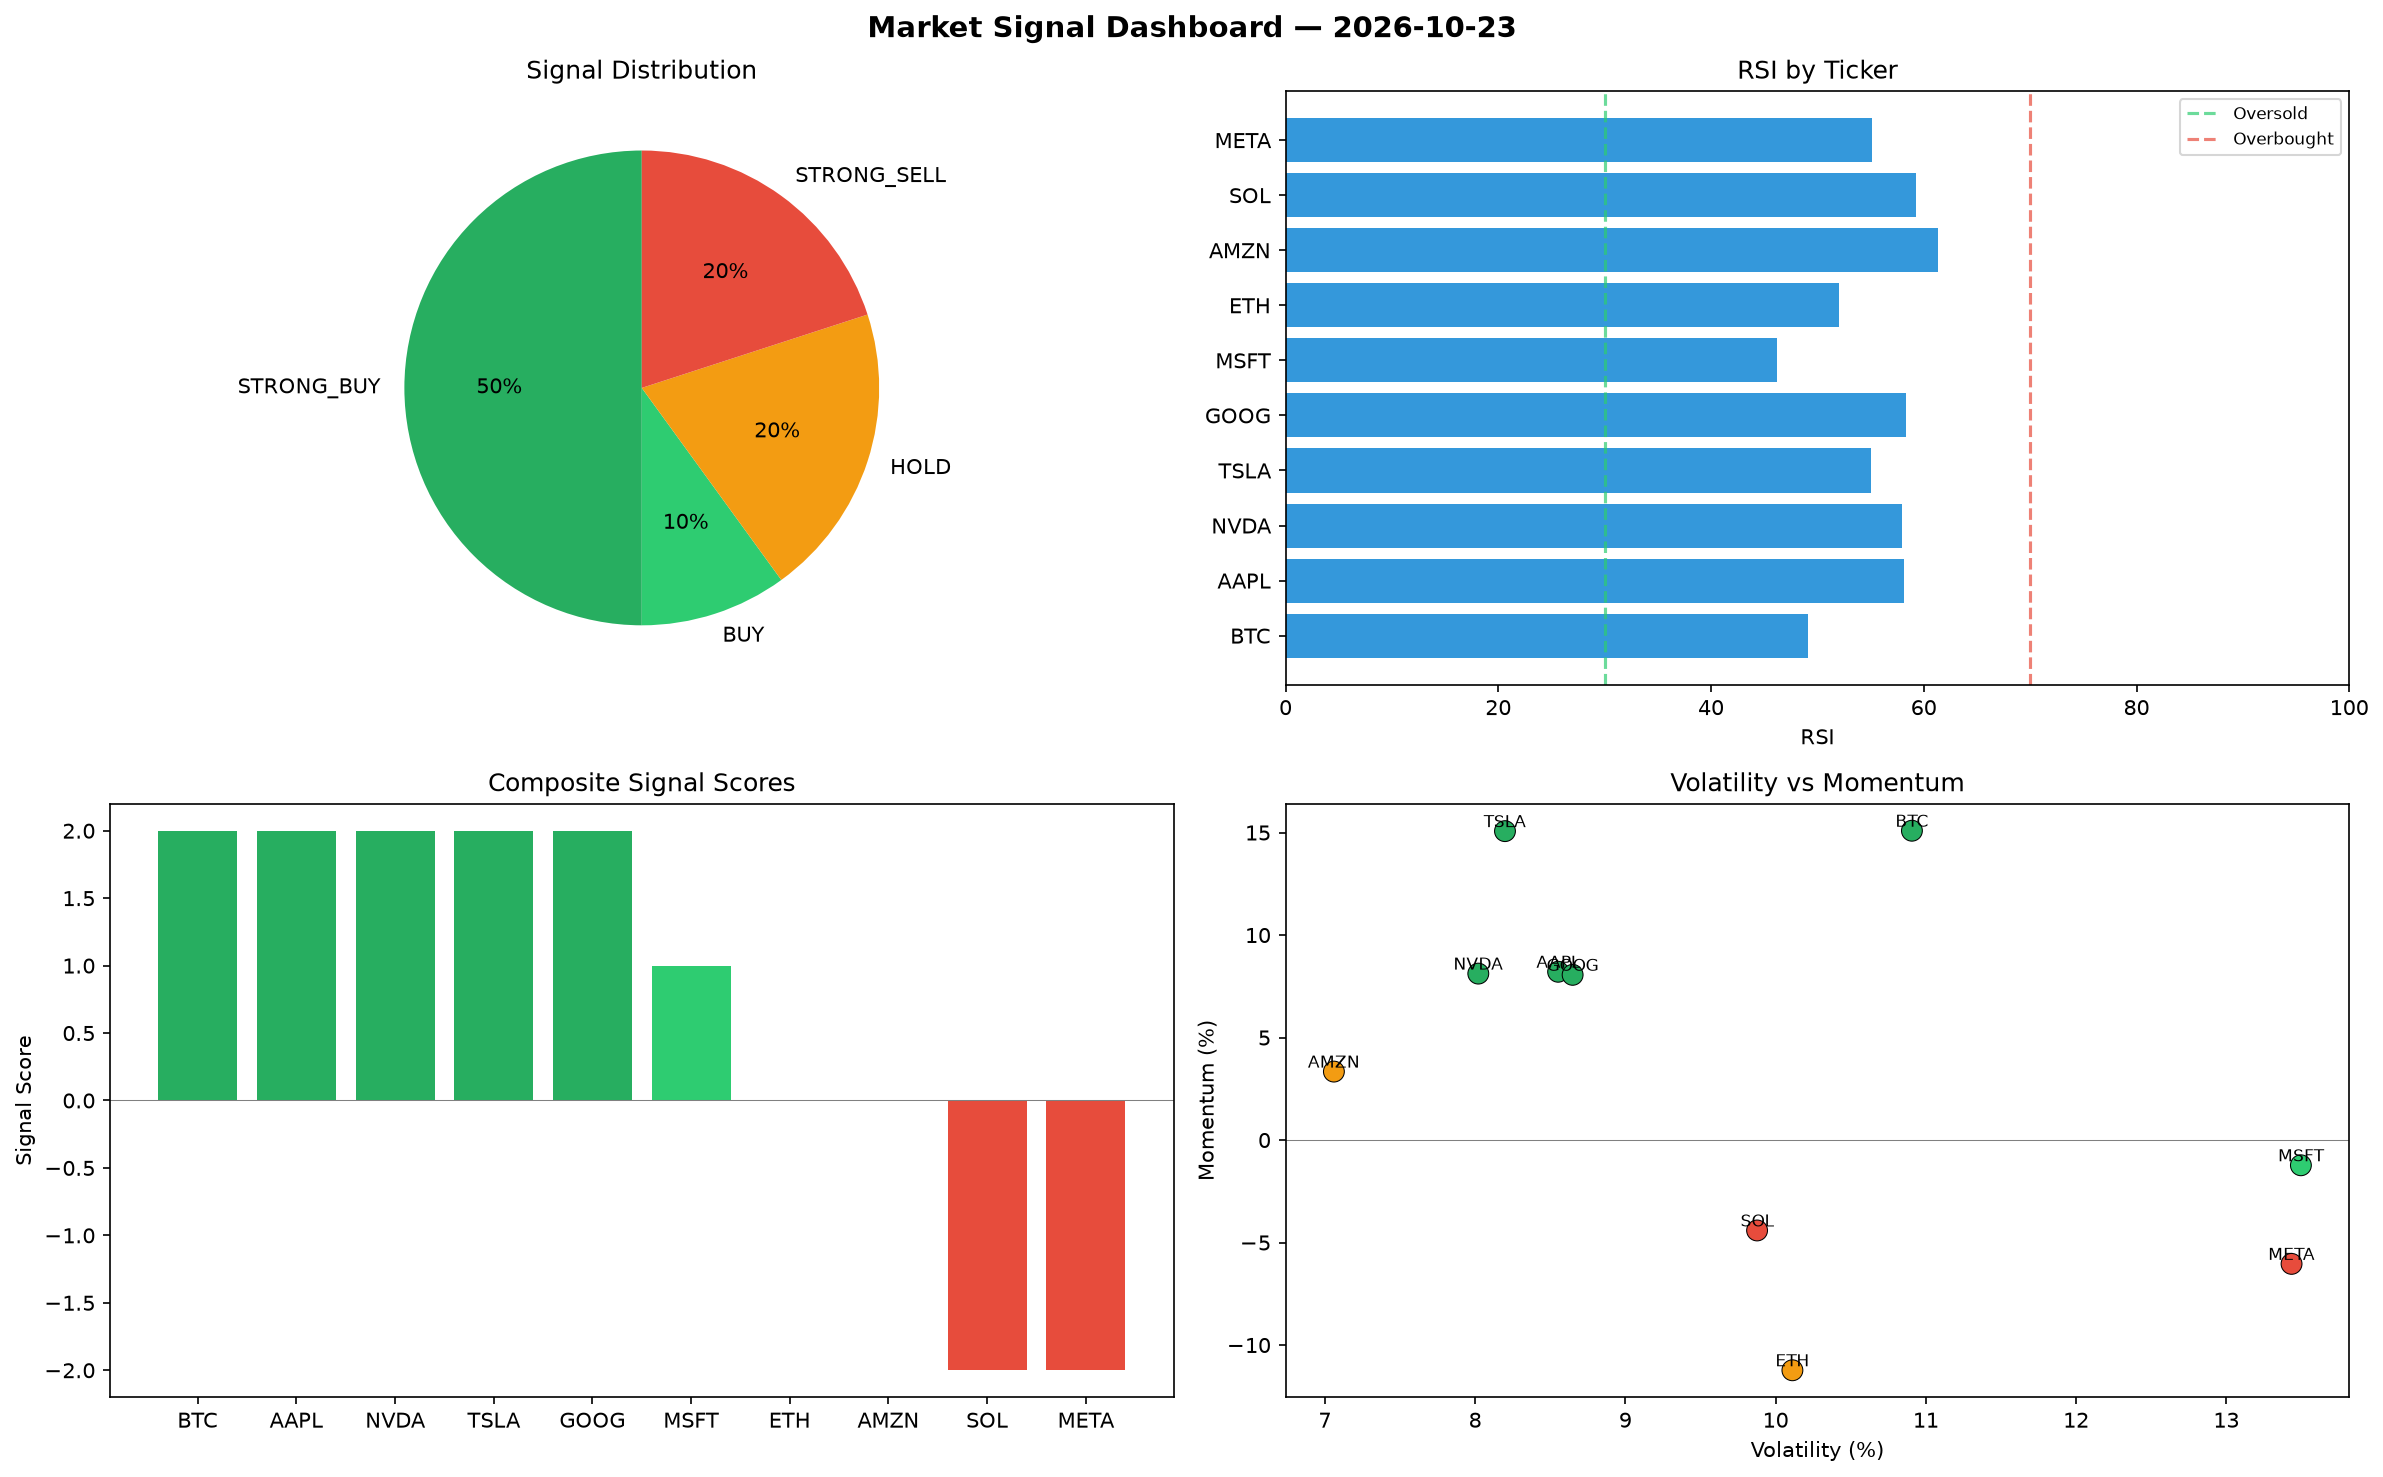
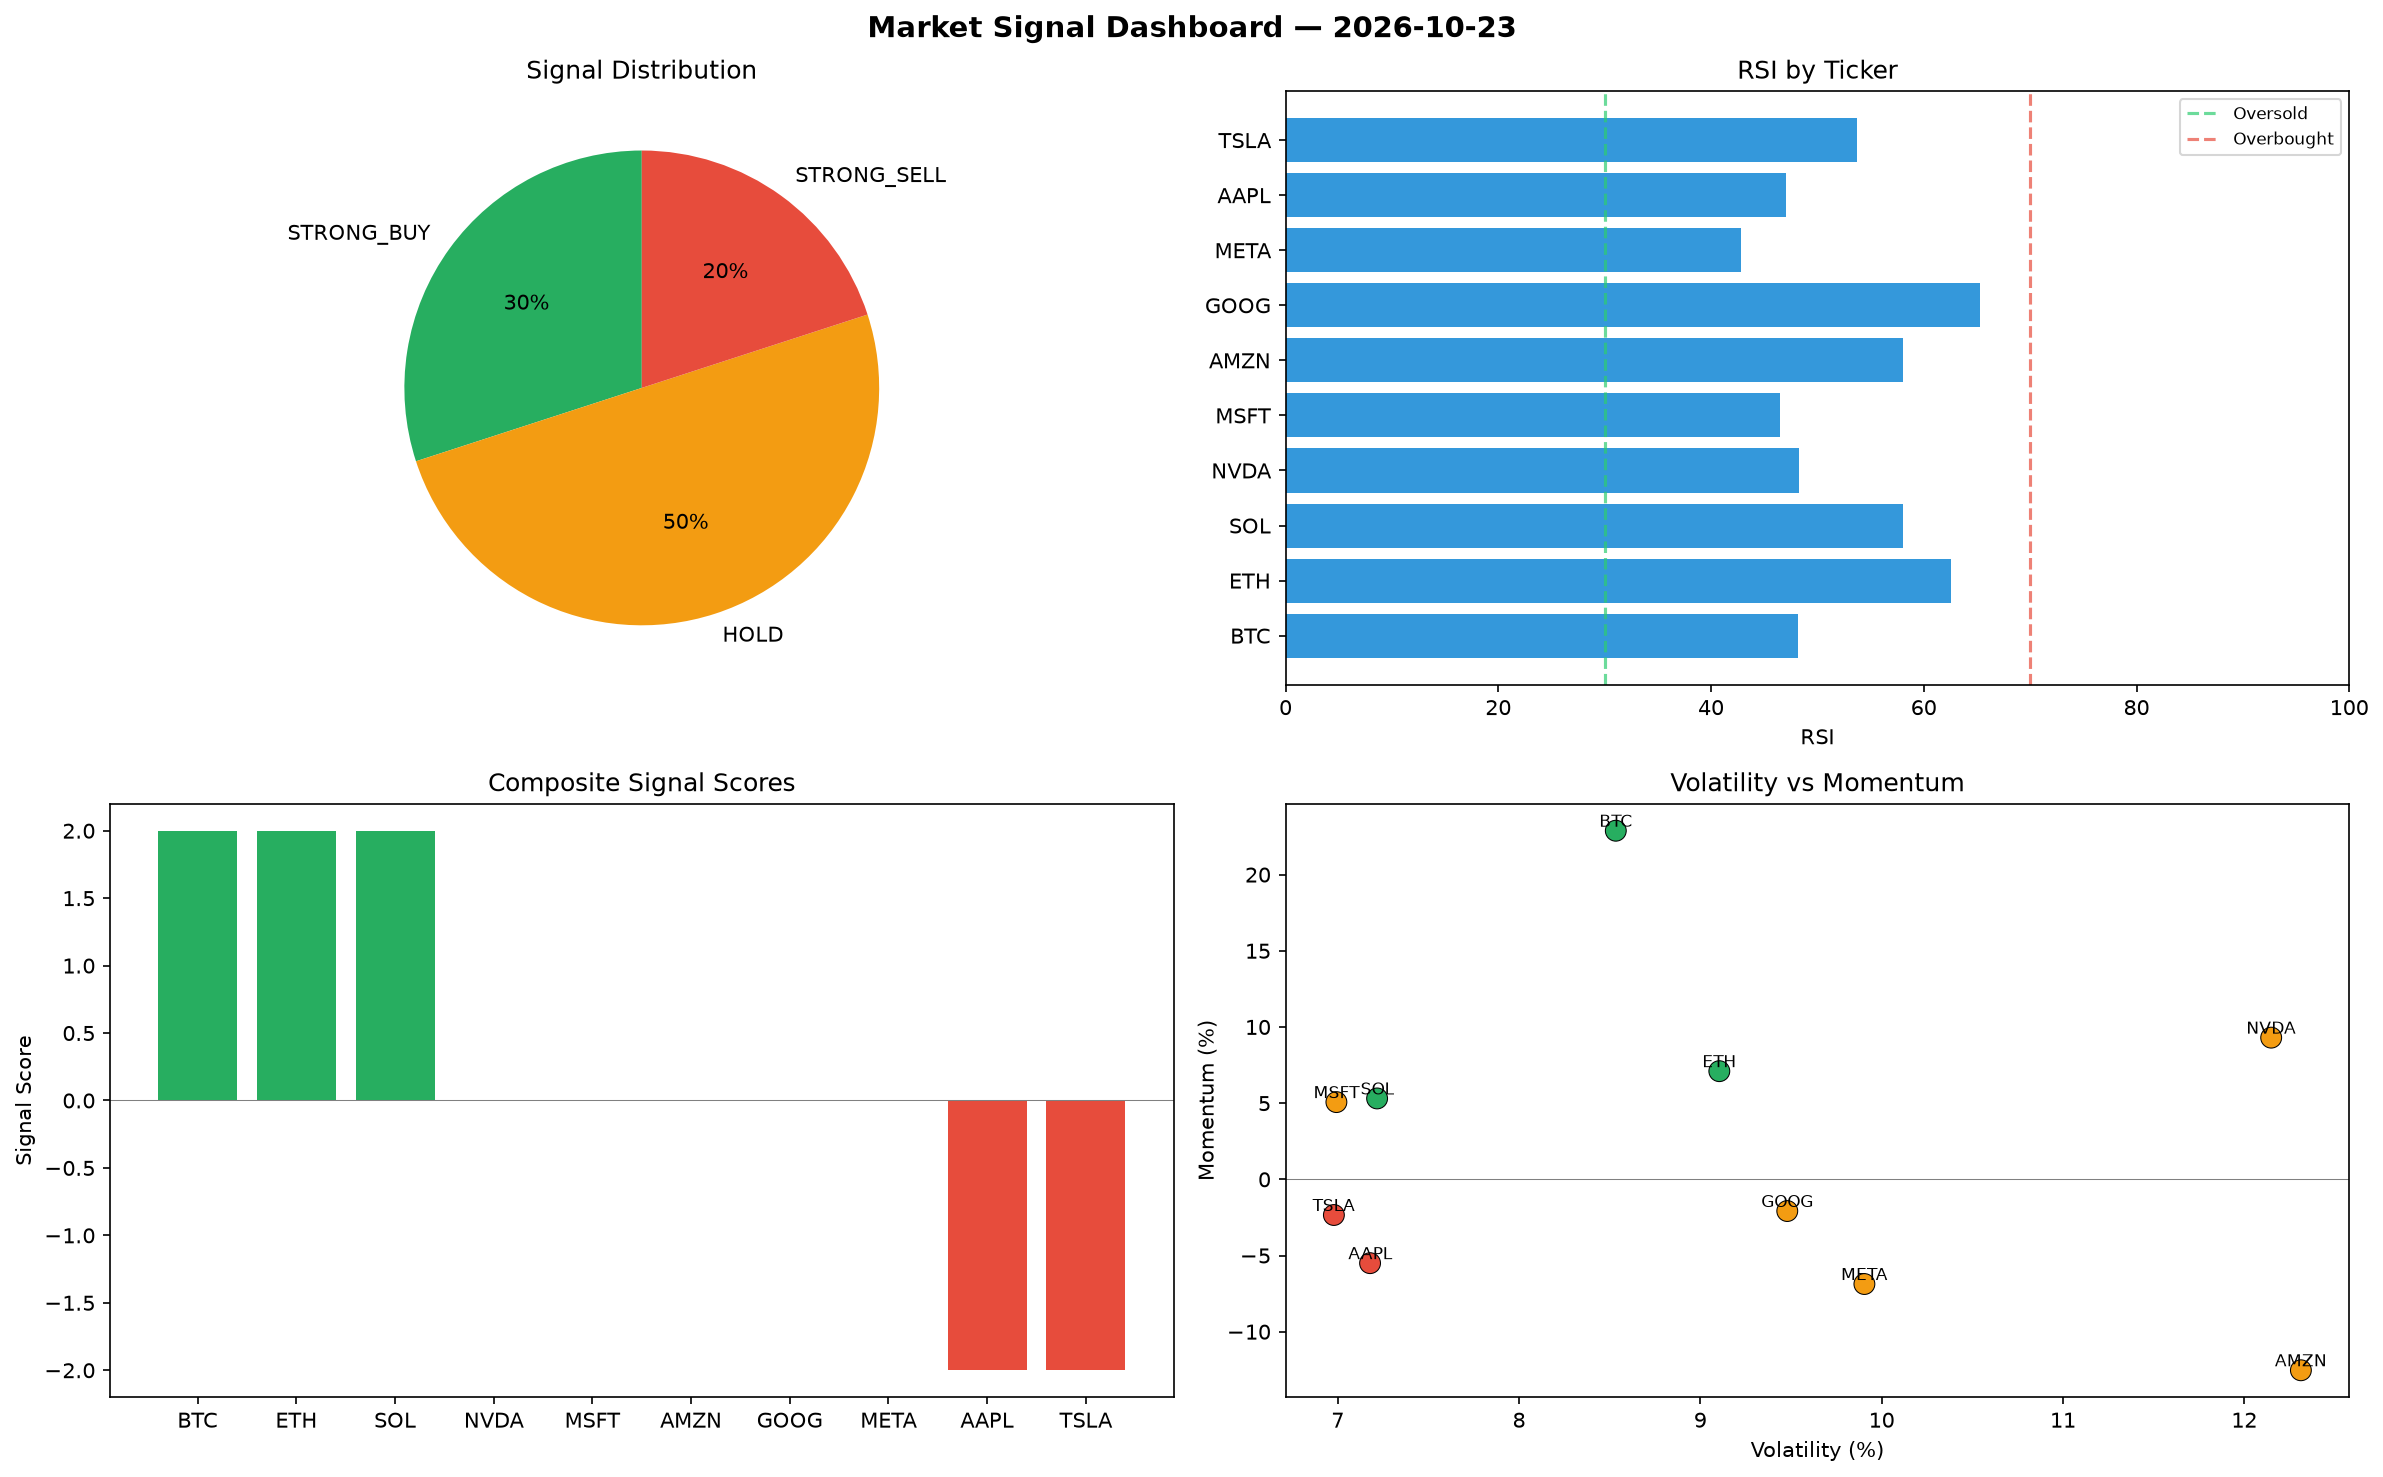
automated-bots: market signals 2026-10-23T13:40

diff --git a/logs/2026-10-23.md b/logs/2026-10-23.md
@@ -1,6 +1,6 @@
 # Market Signal Report — 2026-10-23
 
-**Run ID:** `308779b8d7` | **Buy:** 6 | **Sell:** 2 | **Hold:** 2
+**Run ID:** `34f5d5307f` | **Buy:** 3 | **Sell:** 2 | **Hold:** 5
 
 ![Dashboard](2026-10-23_dashboard.png)
 
@@ -8,28 +8,28 @@
 
 | Ticker | Price | Signal | Score | RSI | Momentum | Confidence |
 |--------|-------|--------|-------|-----|----------|------------|
-| BTC | $5769.42 | **STRONG_BUY** | 2 | 49.09 | 0.1509 | 0.5 |
-| AAPL | $3093.73 | **STRONG_BUY** | 2 | 58.13 | 0.0821 | 0.5 |
-| NVDA | $3729.53 | **STRONG_BUY** | 2 | 57.95 | 0.0812 | 0.5 |
-| TSLA | $2849.98 | **STRONG_BUY** | 2 | 55.05 | 0.1507 | 0.5 |
-| GOOG | $4180.43 | **STRONG_BUY** | 2 | 58.33 | 0.0806 | 0.5 |
-| MSFT | $811.35 | **BUY** | 1 | 46.21 | -0.0123 | 0.25 |
-| ETH | $3928.46 | **HOLD** | 0 | 52.03 | -0.1123 | 0.0 |
-| AMZN | $2687.93 | **HOLD** | 0 | 61.35 | 0.0334 | 0.0 |
-| SOL | $4327.35 | **STRONG_SELL** | -2 | 59.3 | -0.0441 | 0.5 |
-| META | $1971.78 | **STRONG_SELL** | -2 | 55.12 | -0.0604 | 0.5 |
+| BTC | $2411.7 | **STRONG_BUY** | 2 | 48.22 | 0.2288 | 0.5 |
+| ETH | $3969.51 | **STRONG_BUY** | 2 | 62.56 | 0.071 | 0.5 |
+| SOL | $484.83 | **STRONG_BUY** | 2 | 58.02 | 0.0531 | 0.5 |
+| NVDA | $2526.16 | **HOLD** | 0 | 48.25 | 0.093 | 0.0 |
+| MSFT | $1741.78 | **HOLD** | 0 | 46.5 | 0.0507 | 0.0 |
+| AMZN | $1442.59 | **HOLD** | 0 | 58.04 | -0.1253 | 0.0 |
+| GOOG | $2080.91 | **HOLD** | 0 | 65.29 | -0.0208 | 0.0 |
+| META | $2730.64 | **HOLD** | 0 | 42.86 | -0.0687 | 0.0 |
+| AAPL | $4270.3 | **STRONG_SELL** | -2 | 47.09 | -0.055 | 0.5 |
+| TSLA | $3094.22 | **STRONG_SELL** | -2 | 53.76 | -0.0234 | 0.5 |
 
 ## Delta vs Yesterday
 
 | Ticker | Today | Yesterday | Price Change | Signal Changed |
 |--------|-------|-----------|-------------|----------------|
-| BTC | STRONG_BUY | HOLD | 📈 98.01% | ⚠ YES |
-| AAPL | STRONG_BUY | HOLD | 📈 229.61% | ⚠ YES |
-| NVDA | STRONG_BUY | HOLD | 📈 166.77% | ⚠ YES |
-| TSLA | STRONG_BUY | HOLD | 📈 614.59% | ⚠ YES |
-| GOOG | STRONG_BUY | SELL | 📈 18.3% | ⚠ YES |
-| MSFT | BUY | SELL | 📉 -81.44% | ⚠ YES |
-| ETH | HOLD | SELL | 📈 36.24% | ⚠ YES |
-| AMZN | HOLD | STRONG_SELL | 📈 504.53% | ⚠ YES |
-| SOL | STRONG_SELL | HOLD | 📈 37.44% | ⚠ YES |
-| META | STRONG_SELL | SELL | 📈 82.4% | ⚠ YES |
+| BTC | STRONG_BUY | HOLD | 📉 -17.23% | ⚠ YES |
+| ETH | STRONG_BUY | SELL | 📈 37.66% | ⚠ YES |
+| SOL | STRONG_BUY | HOLD | 📉 -84.6% | ⚠ YES |
+| NVDA | HOLD | HOLD | 📈 80.69% | — |
+| MSFT | HOLD | SELL | 📉 -60.17% | ⚠ YES |
+| AMZN | HOLD | STRONG_SELL | 📈 224.45% | ⚠ YES |
+| GOOG | HOLD | SELL | 📉 -41.11% | ⚠ YES |
+| META | HOLD | SELL | 📈 152.6% | ⚠ YES |
+| AAPL | STRONG_SELL | HOLD | 📈 354.96% | ⚠ YES |
+| TSLA | STRONG_SELL | HOLD | 📈 675.82% | ⚠ YES |
